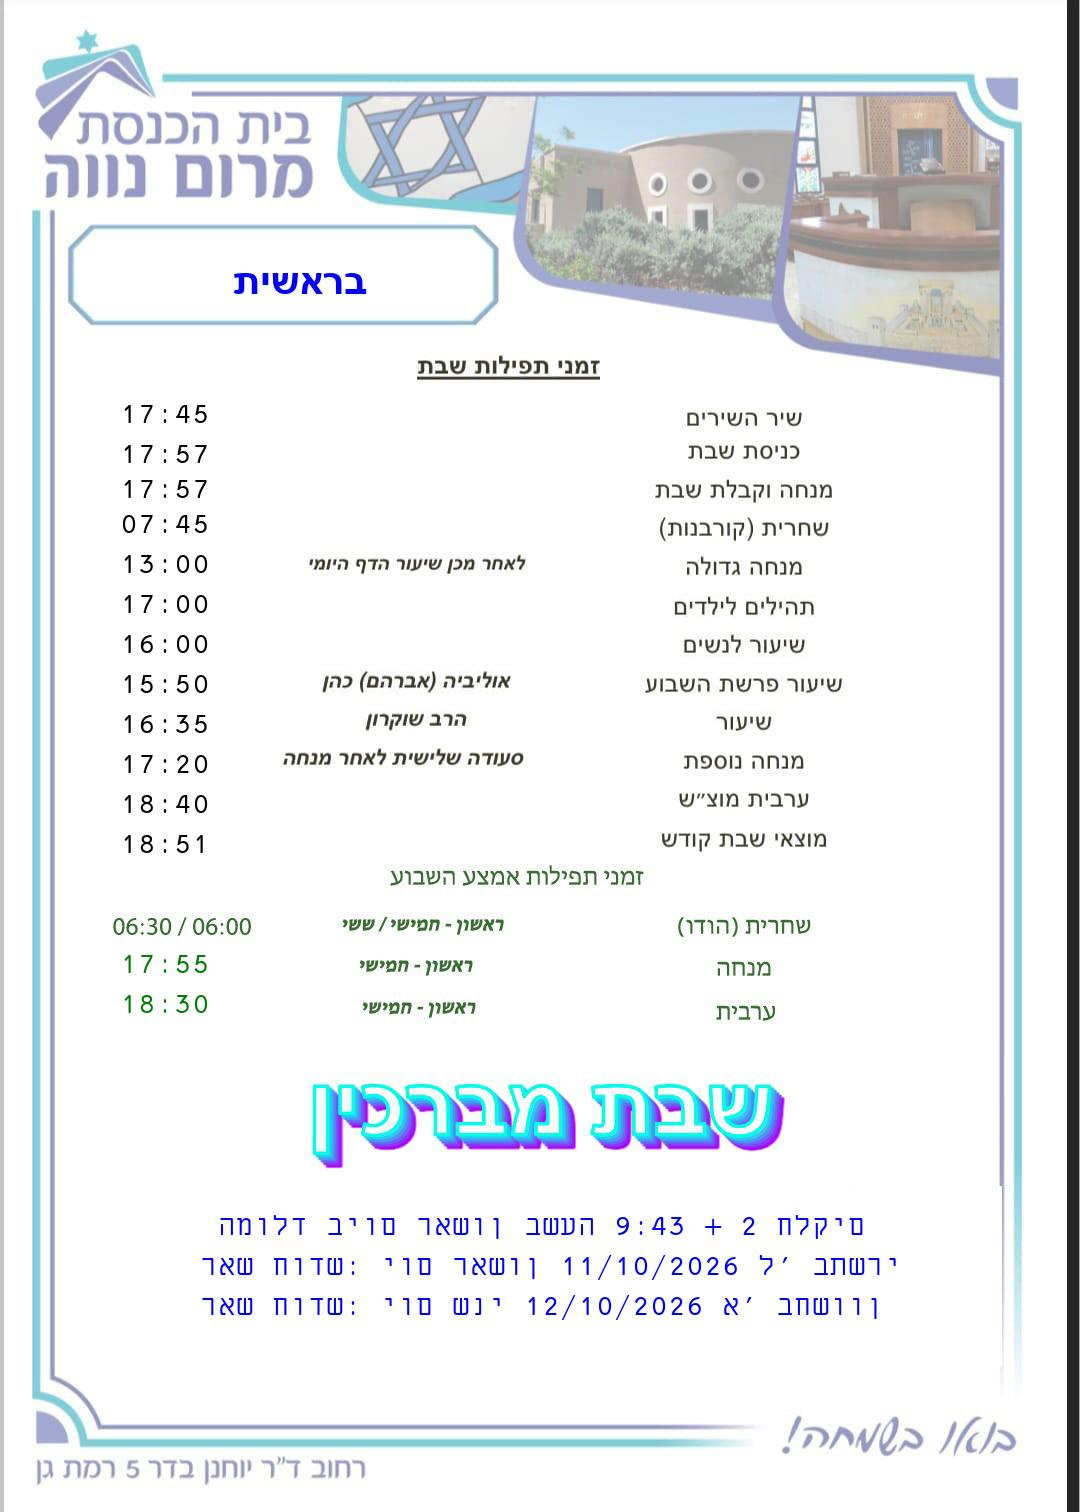
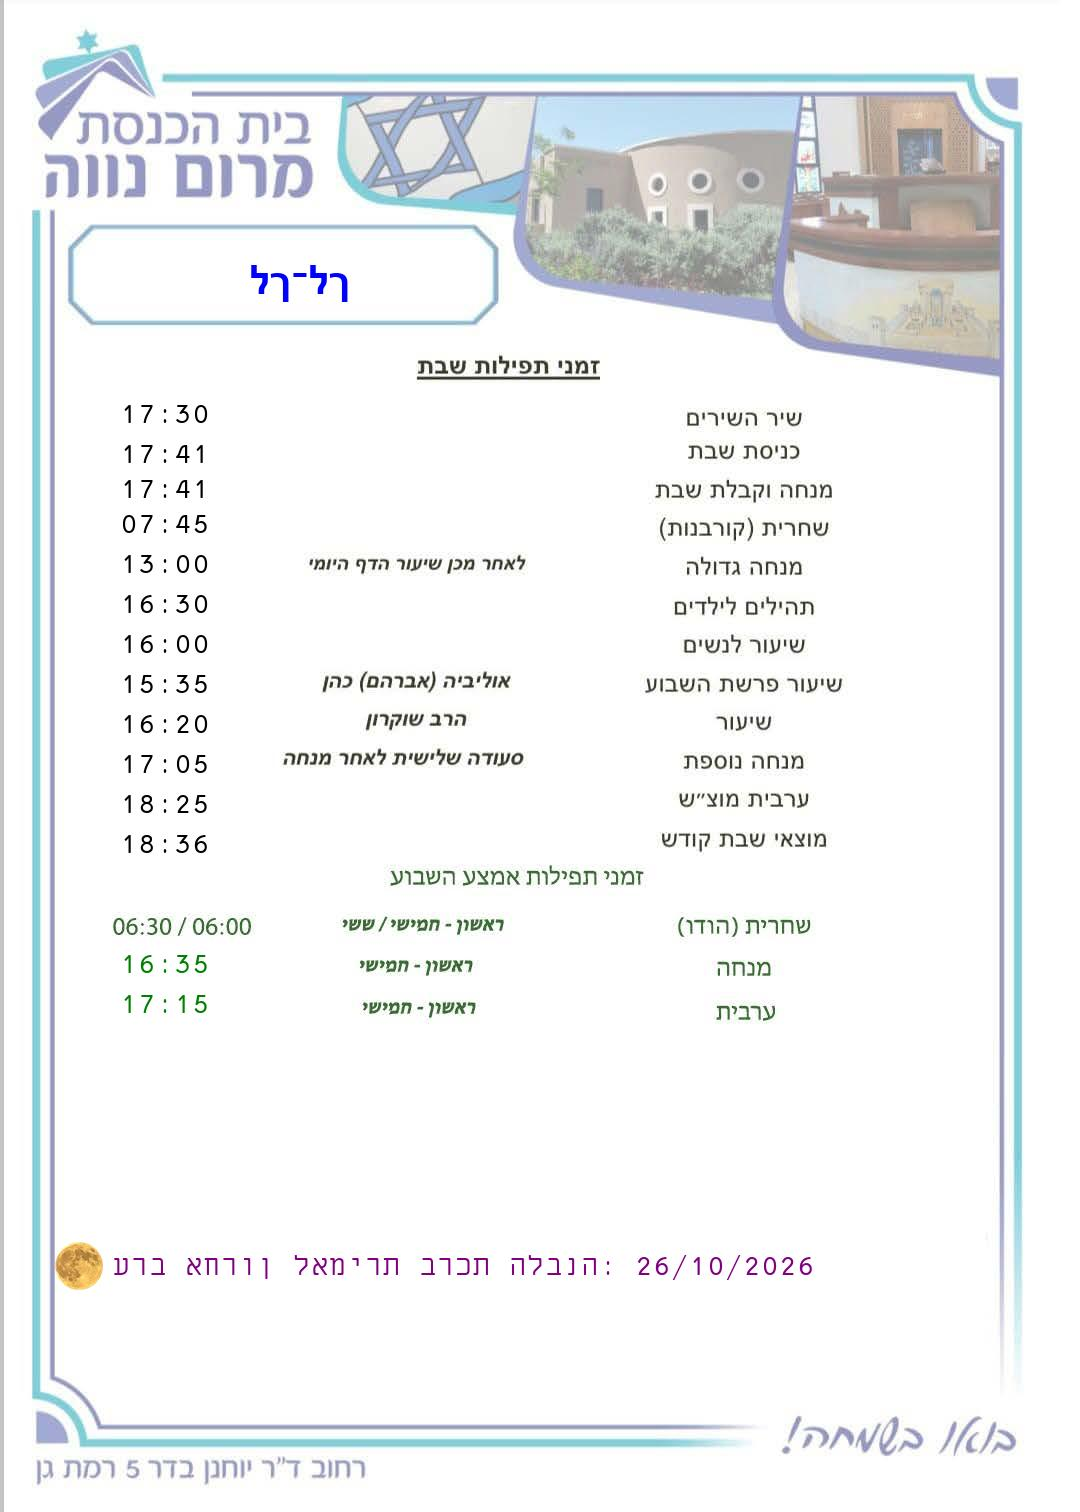
שינוי קל

diff --git a/horaires_shabbat.py b/horaires_shabbat.py
@@ -619,8 +619,8 @@ class ShabbatScheduleGenerator:
                 thursday_sunset_min = to_minutes(thursday_sunset)
                 min_sunset = min(sunday_sunset_min, thursday_sunset_min)
                 max_sunset = max(sunday_sunset_min, thursday_sunset_min)
-                minha_midweek = self.format_time(self.round_to_nearest_five(min_sunset - 13))
-                arvit_midweek = self.format_time(self.round_to_next_five(max_sunset + 15))
+                minha_midweek = self.format_time(self.round_to_nearest_five(min_sunset - 17))
+                arvit_midweek = self.format_time(self.round_to_next_five(max_sunset + 18))
             else:
                 minha_midweek = ""
                 arvit_midweek = ""
@@ -786,7 +786,7 @@ class ShabbatScheduleGenerator:
     def calculate_times(self, shabbat_start, shabbat_end):
         start_minutes = shabbat_start.hour * 60 + shabbat_start.minute
         end_minutes = shabbat_end.hour * 60 + shabbat_end.minute
-        tehilim_ete = self.round_to_nearest_five(17 * 60)
+        tehilim_ete = self.round_to_nearest_five(16 * 60+30)
         tehilim_hiver = self.round_to_nearest_five(15 * 60)
         tehilim = tehilim_ete if self.season == "summer" else tehilim_hiver
 
@@ -836,10 +836,10 @@ class ShabbatScheduleGenerator:
             sunday_sunset_min = to_minutes(sunday_sunset_str)
             thursday_sunset_min = to_minutes(thursday_sunset_str)
             min_sunset = min(sunday_sunset_min, thursday_sunset_min)
-            minha_hol_minutes = min_sunset - 13
+            minha_hol_minutes = min_sunset - 17
             times["mincha_hol"] = self.round_to_nearest_five(minha_hol_minutes)
             max_sunset = max(sunday_sunset_min, thursday_sunset_min)
-            arvit_hol_minutes = max_sunset + 15
+            arvit_hol_minutes = max_sunset + 18
             times["arvit_hol"] = self.round_to_next_five(arvit_hol_minutes)
         else:
             times["mincha_hol"] = None
